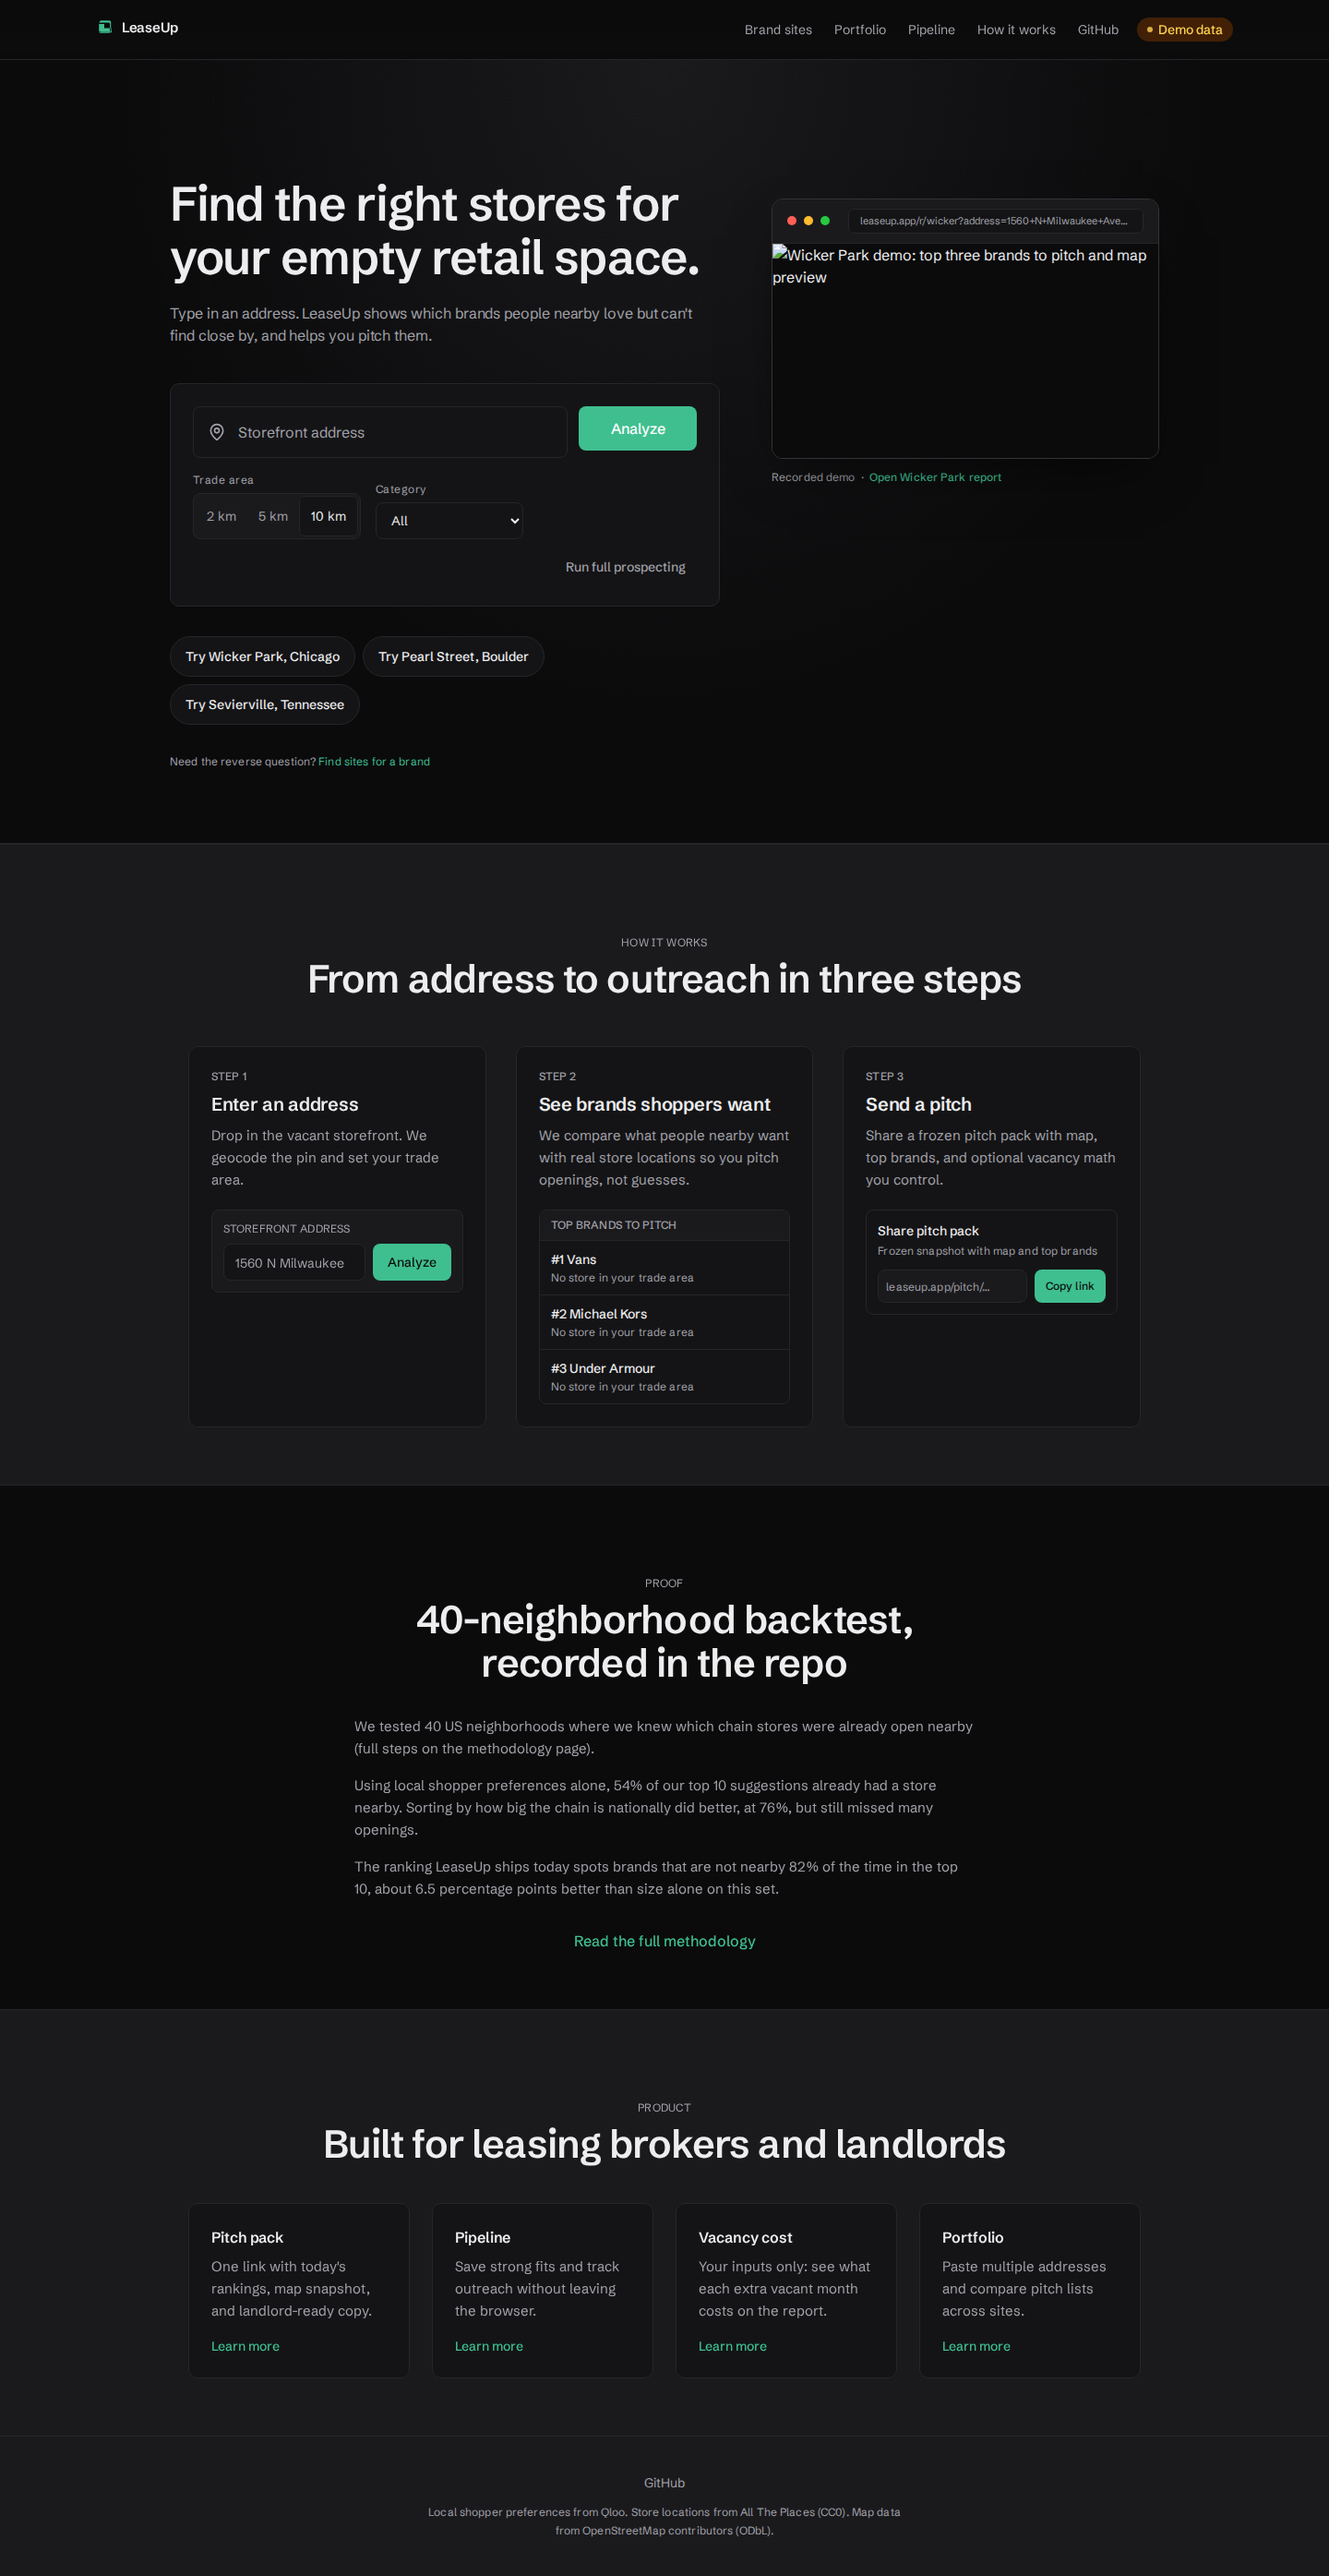
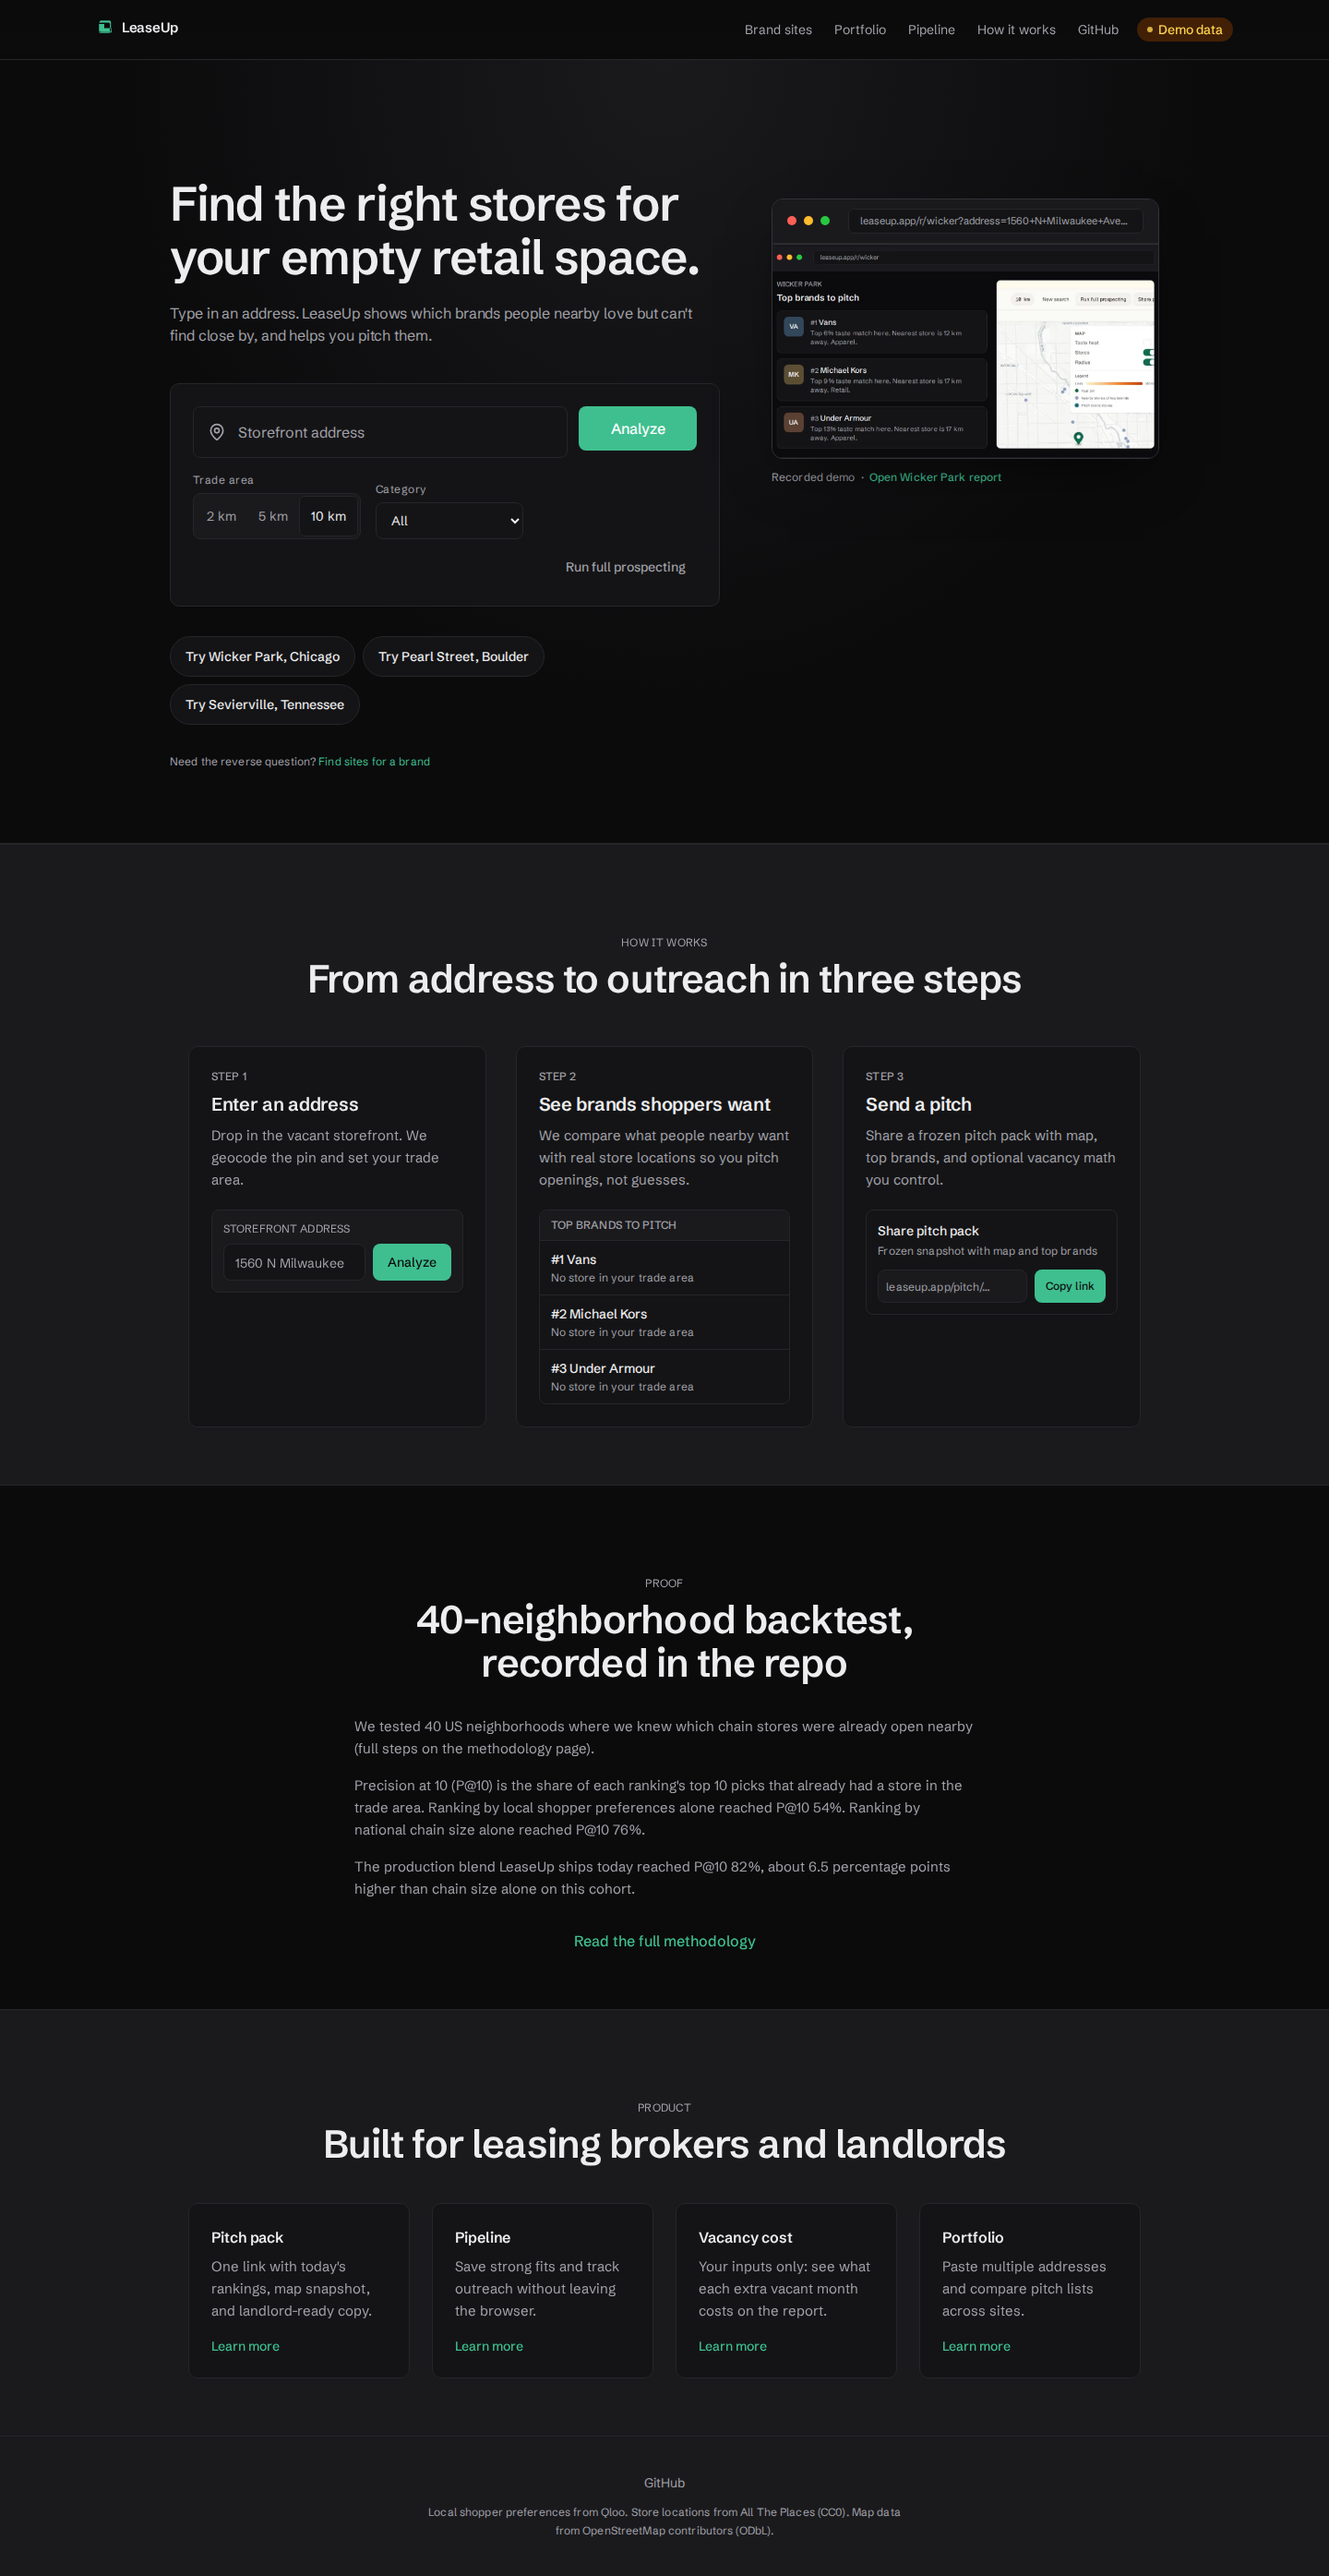
fix(web): bundle hero preview images and assert they load
Import hero AVIF/WebP through Vite so preview builds always include assets.
Add Playwright e2e checks for naturalWidth in light and dark, tighten proof
copy to match QLOO_LIFT_EVAL (54/76/82% P@10), and refresh landing screenshots.

Changed region(s): [[0.2812, 0.686, 0.6875, 0.7484], [0.75, 0.0935, 0.875, 0.1871], [0.5625, 0.0935, 0.6562, 0.1871]]

diff --git a/apps/web/src/components/landing/LandingHeroProductPreview.tsx b/apps/web/src/components/landing/LandingHeroProductPreview.tsx
@@ -1,10 +1,18 @@
+import { useState } from 'react';
 import { Link } from 'react-router-dom';
 import { landingWickerReportPath } from './LandingReportPreview';
+import { LandingHeroFixtureFrame } from './LandingHeroFixtureFrame';
+import heroLightAvif from '../../assets/landing-hero/hero-wicker-light.avif';
+import heroLightWebp from '../../assets/landing-hero/hero-wicker-light.webp';
+import heroDarkAvif from '../../assets/landing-hero/hero-wicker-dark.avif';
+import heroDarkWebp from '../../assets/landing-hero/hero-wicker-dark.webp';
 
 const HERO_WIDTH = 720;
 const HERO_HEIGHT = 400;
 
 export function LandingHeroProductPreview() {
+  const [useFixtureFallback, setUseFixtureFallback] = useState(false);
+
   return (
     <div className="mx-auto w-full max-w-[720px] lg:mx-0" data-testid="landing-hero-product-preview">
       <Link
@@ -27,29 +35,32 @@ export function LandingHeroProductPreview() {
               leaseup.app{landingWickerReportPath}
             </div>
           </div>
-          <picture className="block">
-            <source
-              type="image/avif"
-              media="(prefers-color-scheme: dark)"
-              srcSet="/landing/hero-wicker-dark.avif"
-            />
-            <source
-              type="image/webp"
-              media="(prefers-color-scheme: dark)"
-              srcSet="/landing/hero-wicker-dark.webp"
-            />
-            <source type="image/avif" srcSet="/landing/hero-wicker-light.avif" />
-            <img
-              src="/landing/hero-wicker-light.webp"
-              alt="Wicker Park demo: top three brands to pitch and map preview"
-              width={HERO_WIDTH}
-              height={HERO_HEIGHT}
-              loading="lazy"
-              decoding="async"
-              fetchPriority="low"
-              className="block h-auto w-full bg-bg"
-            />
-          </picture>
+          {useFixtureFallback ? (
+            <LandingHeroFixtureFrame />
+          ) : (
+            <picture className="block">
+              <source
+                type="image/avif"
+                media="(prefers-color-scheme: dark)"
+                srcSet={heroDarkAvif}
+              />
+              <source type="image/webp" media="(prefers-color-scheme: dark)" srcSet={heroDarkWebp} />
+              <source type="image/avif" srcSet={heroLightAvif} />
+              <source type="image/webp" srcSet={heroLightWebp} />
+              <img
+                data-testid="landing-hero-preview-img"
+                src={heroLightWebp}
+                alt=""
+                width={HERO_WIDTH}
+                height={HERO_HEIGHT}
+                loading="eager"
+                decoding="async"
+                fetchPriority="low"
+                className="block h-auto w-full bg-bg"
+                onError={() => setUseFixtureFallback(true)}
+              />
+            </picture>
+          )}
         </div>
         <p className="mt-3 text-center text-meta text-ink-2 lg:text-left">
           <span className="text-ink-3">Recorded demo</span>

diff --git a/apps/web/src/lib/landing-eval-copy.ts b/apps/web/src/lib/landing-eval-copy.ts
@@ -4,9 +4,10 @@ import { loadLiveQlooLiftAggregates } from '@leaseup/fixtures';
 export function landingEvalProofParagraphs(): string[] {
   const agg = loadLiveQlooLiftAggregates();
   const pct = (n: number) => `${Math.round(n * 100)}%`;
+
   return [
     `We tested ${agg.siteCount} US neighborhoods where we knew which chain stores were already open nearby (full steps on the methodology page).`,
-    `Using local shopper preferences alone, ${pct(agg.rawQlooPrecisionAt10)} of our top 10 suggestions already had a store nearby. Sorting by how big the chain is nationally did better, at ${pct(agg.chainSizePrecisionAt10)}, but still missed many openings.`,
-    `The ranking LeaseUp ships today spots brands that are not nearby ${pct(agg.logisticBlendPrecisionAt10)} of the time in the top 10, about ${agg.logisticBlendLiftVsChainPp.toFixed(1)} percentage points better than size alone on this set.`,
+    `Precision at 10 (P@10) is the share of each ranking's top 10 picks that already had a store in the trade area. Ranking by local shopper preferences alone reached P@10 ${pct(agg.rawQlooPrecisionAt10)}. Ranking by national chain size alone reached P@10 ${pct(agg.chainSizePrecisionAt10)}.`,
+    `The production blend LeaseUp ships today reached P@10 ${pct(agg.logisticBlendPrecisionAt10)}, about ${agg.logisticBlendLiftVsChainPp.toFixed(1)} percentage points higher than chain size alone on this cohort.`,
   ];
 }

diff --git a/apps/web/src/__tests__/landing-eval-copy.test.ts b/apps/web/src/__tests__/landing-eval-copy.test.ts
@@ -2,12 +2,16 @@ import { describe, it, expect } from 'vitest';
 import { landingEvalProofParagraphs } from '../lib/landing-eval-copy';
 
 describe('landingEvalProofParagraphs', () => {
-  it('uses committed 40-site eval headline numbers', () => {
-    const lines = landingEvalProofParagraphs();
-    expect(lines.join(' ')).toContain('40 US neighborhoods');
-    expect(lines.join(' ')).toContain('54%');
-    expect(lines.join(' ')).toContain('76%');
-    expect(lines.join(' ')).toContain('percentage points');
-    expect(lines.join(' ')).toContain('82%');
+  it('uses committed 40-site eval headline numbers and P@10 wording', () => {
+    const text = landingEvalProofParagraphs().join(' ');
+    expect(text).toContain('40 US neighborhoods');
+    expect(text).toContain('54%');
+    expect(text).not.toContain('64%');
+    expect(text).toContain('76%');
+    expect(text).toContain('82%');
+    expect(text).toContain('Precision at 10');
+    expect(text).toContain('already had a store in the trade area');
+    expect(text).not.toMatch(/not nearby/i);
+    expect(text).not.toMatch(/openings/i);
   });
 });

diff --git a/e2e/landing-hero-preview.spec.ts b/e2e/landing-hero-preview.spec.ts
@@ -1,0 +1,27 @@
+import { test, expect } from '@playwright/test';
+
+async function assertHeroPreviewImageLoads(page: import('@playwright/test').Page) {
+  await page.goto('/');
+  const preview = page.getByTestId('landing-hero-product-preview');
+  await preview.waitFor({ timeout: 30_000 });
+  await preview.scrollIntoViewIfNeeded();
+  const img = page.getByTestId('landing-hero-preview-img');
+  await expect(img).toBeVisible({ timeout: 15_000 });
+  await expect
+    .poll(async () => img.evaluate((el) => (el as HTMLImageElement).naturalWidth), {
+      timeout: 15_000,
+    })
+    .toBeGreaterThan(0);
+}
+
+test.describe('Landing hero product preview', () => {
+  test('hero preview image loads in light mode', async ({ page }) => {
+    await page.emulateMedia({ colorScheme: 'light' });
+    await assertHeroPreviewImageLoads(page);
+  });
+
+  test('hero preview image loads in dark mode', async ({ page }) => {
+    await page.emulateMedia({ colorScheme: 'dark' });
+    await assertHeroPreviewImageLoads(page);
+  });
+});
